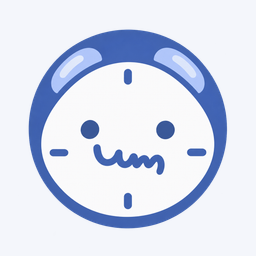
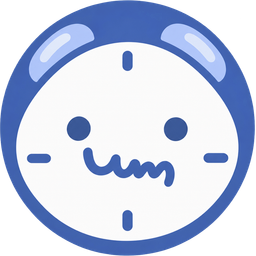
fix: 탭 아이콘이 네모 바탕으로 보이던 문제 수정
배경을 브랜드 색으로 채워서 '네모 위의 동그라미'로 보였다.
- 탭·북마크·파비콘: 배경 투명 → 동그란 로고만 표시
- 원본의 투명 여백을 trim 해 로고가 아이콘을 꽉 채우도록
- iOS·maskable 은 투명이 검정으로 합성되므로 배경 유지
- 캐시 무효화 v6

diff --git a/app/layout.tsx b/app/layout.tsx
@@ -26,11 +26,11 @@ export const metadata: Metadata = {
   // 홈 화면에 추가했을 때 쓰이는 아이콘들
   icons: {
     icon: [
-      { url: "/icons/icon-32.png?v=5", sizes: "32x32", type: "image/png" },
-      { url: "/icons/icon-192.png?v=5", sizes: "192x192", type: "image/png" },
-      { url: "/icons/icon-512.png?v=5", sizes: "512x512", type: "image/png" },
+      { url: "/icons/icon-32.png?v=6", sizes: "32x32", type: "image/png" },
+      { url: "/icons/icon-192.png?v=6", sizes: "192x192", type: "image/png" },
+      { url: "/icons/icon-512.png?v=6", sizes: "512x512", type: "image/png" },
     ],
-    apple: [{ url: "/icons/apple-touch-icon.png?v=5", sizes: "180x180", type: "image/png" }],
+    apple: [{ url: "/icons/apple-touch-icon.png?v=6", sizes: "180x180", type: "image/png" }],
   },
   // iOS 는 이 설정이 있어야 홈 화면 앱이 주소창 없이 실행된다 (웹 푸시의 전제 조건)
   appleWebApp: {

diff --git a/app/manifest.ts b/app/manifest.ts
@@ -19,9 +19,9 @@ export default function manifest(): MetadataRoute.Manifest {
     theme_color: '#6B80A5',
     lang: 'ko',
     icons: [
-      { src: '/icons/icon-192.png?v=5', sizes: '192x192', type: 'image/png', purpose: 'any' },
-      { src: '/icons/icon-512.png?v=5', sizes: '512x512', type: 'image/png', purpose: 'any' },
-      { src: '/icons/icon-maskable-512.png?v=5', sizes: '512x512', type: 'image/png', purpose: 'maskable' },
+      { src: '/icons/icon-192.png?v=6', sizes: '192x192', type: 'image/png', purpose: 'any' },
+      { src: '/icons/icon-512.png?v=6', sizes: '512x512', type: 'image/png', purpose: 'any' },
+      { src: '/icons/icon-maskable-512.png?v=6', sizes: '512x512', type: 'image/png', purpose: 'maskable' },
     ],
   };
 }
